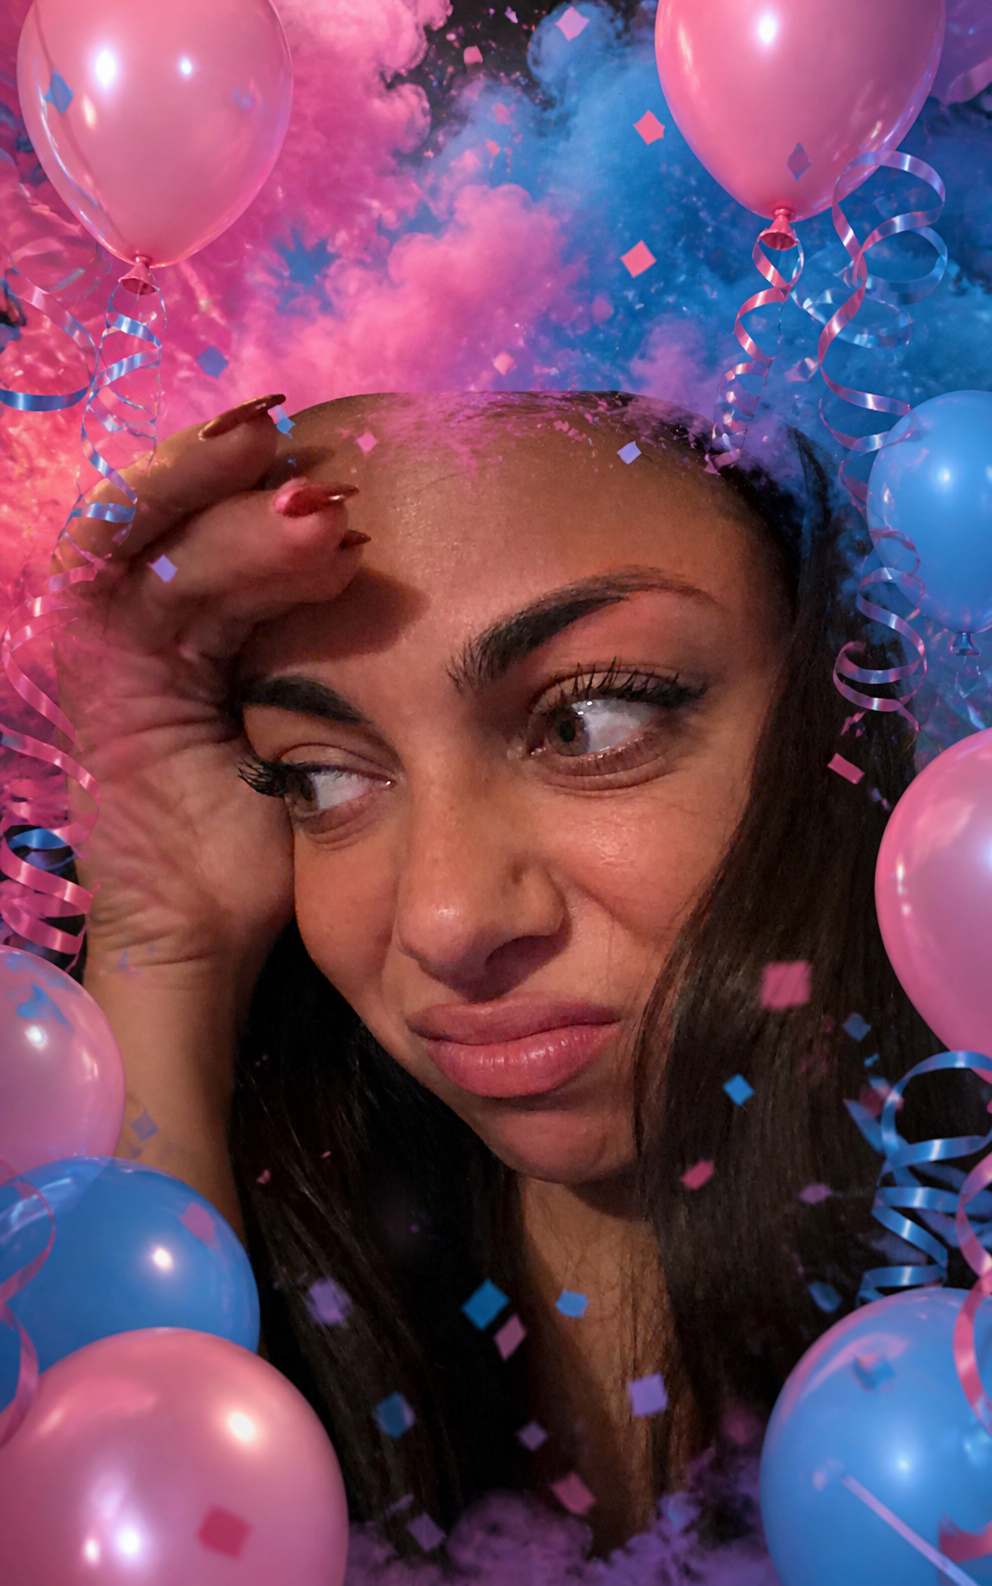
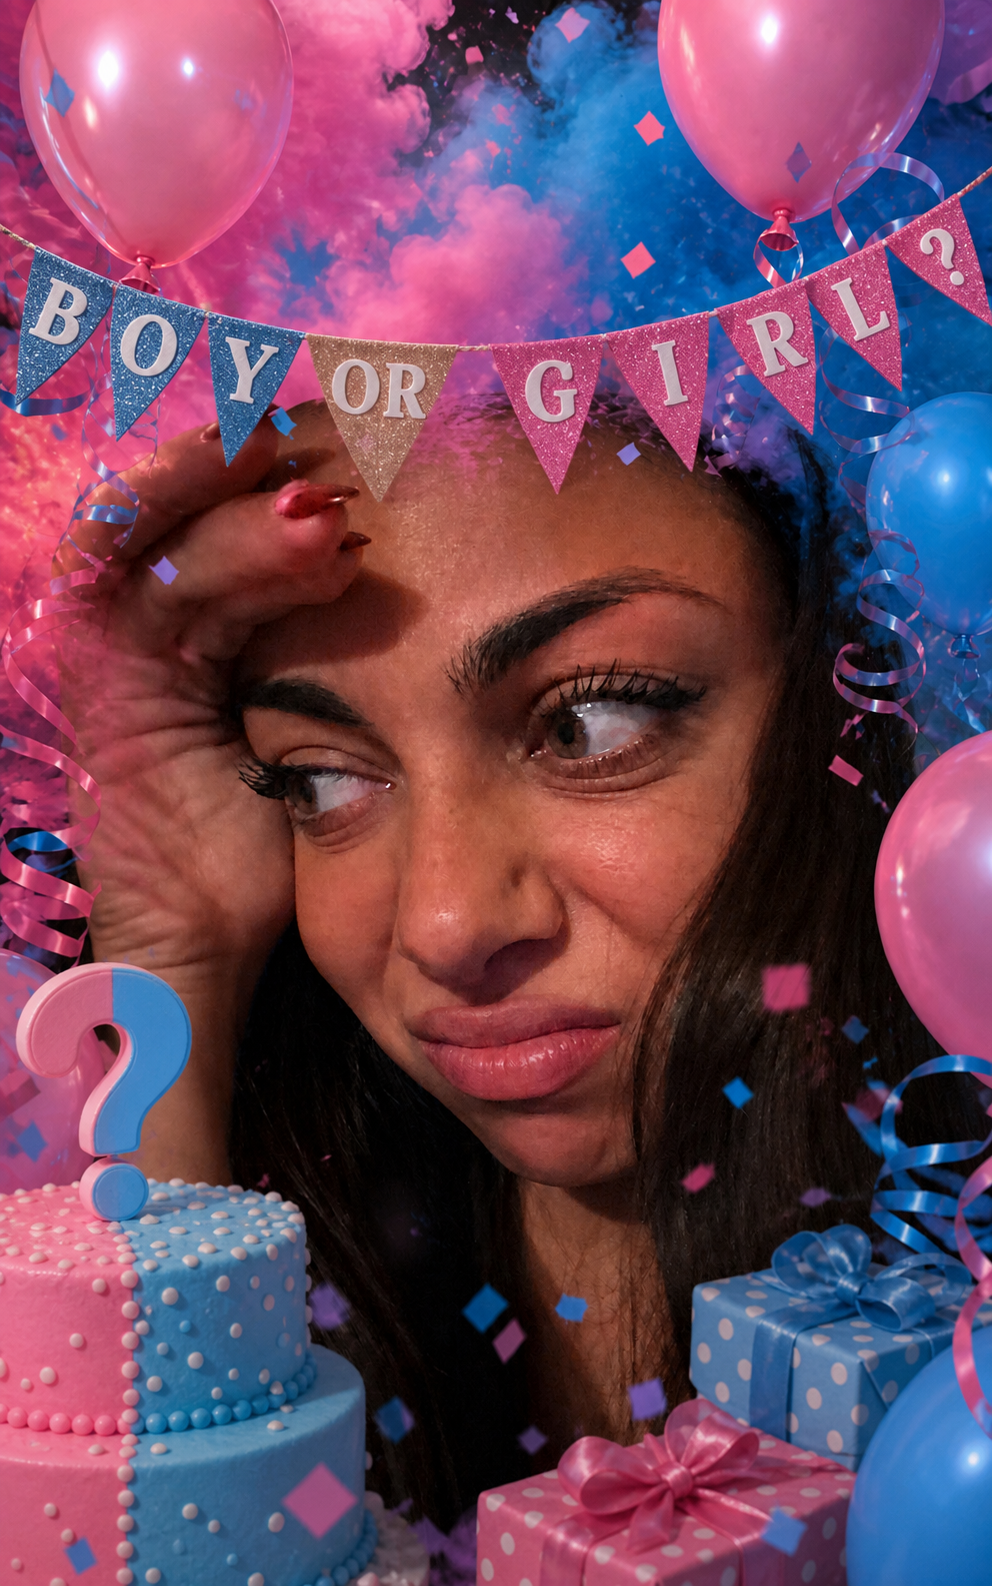
aggiornament231

diff --git a/app.js b/app.js
@@ -23,7 +23,7 @@
     "assets/risposta8.jpeg",
     "assets/risposta9.jpeg",
     "assets/risposta10.jpg",
-    "assets/risposta23-gender-reveal.png",
+    "assets/risposta11-corretta.jpeg",
     "assets/risposta12.jpg",
     "assets/risposta13.jpeg",
     "assets/risposta14.jpeg",
@@ -35,7 +35,7 @@
     "assets/risposta20.jpeg",
     "assets/risposta21.jpeg",
     "assets/risposta22.jpeg",
-    "assets/risposta11.jpeg",
+    "assets/risposta23-gender-reveal.png",
     "assets/risposta24.png",
     "assets/risposta25-distrazione.png",
     "assets/risposta26-abbraccio.png",
